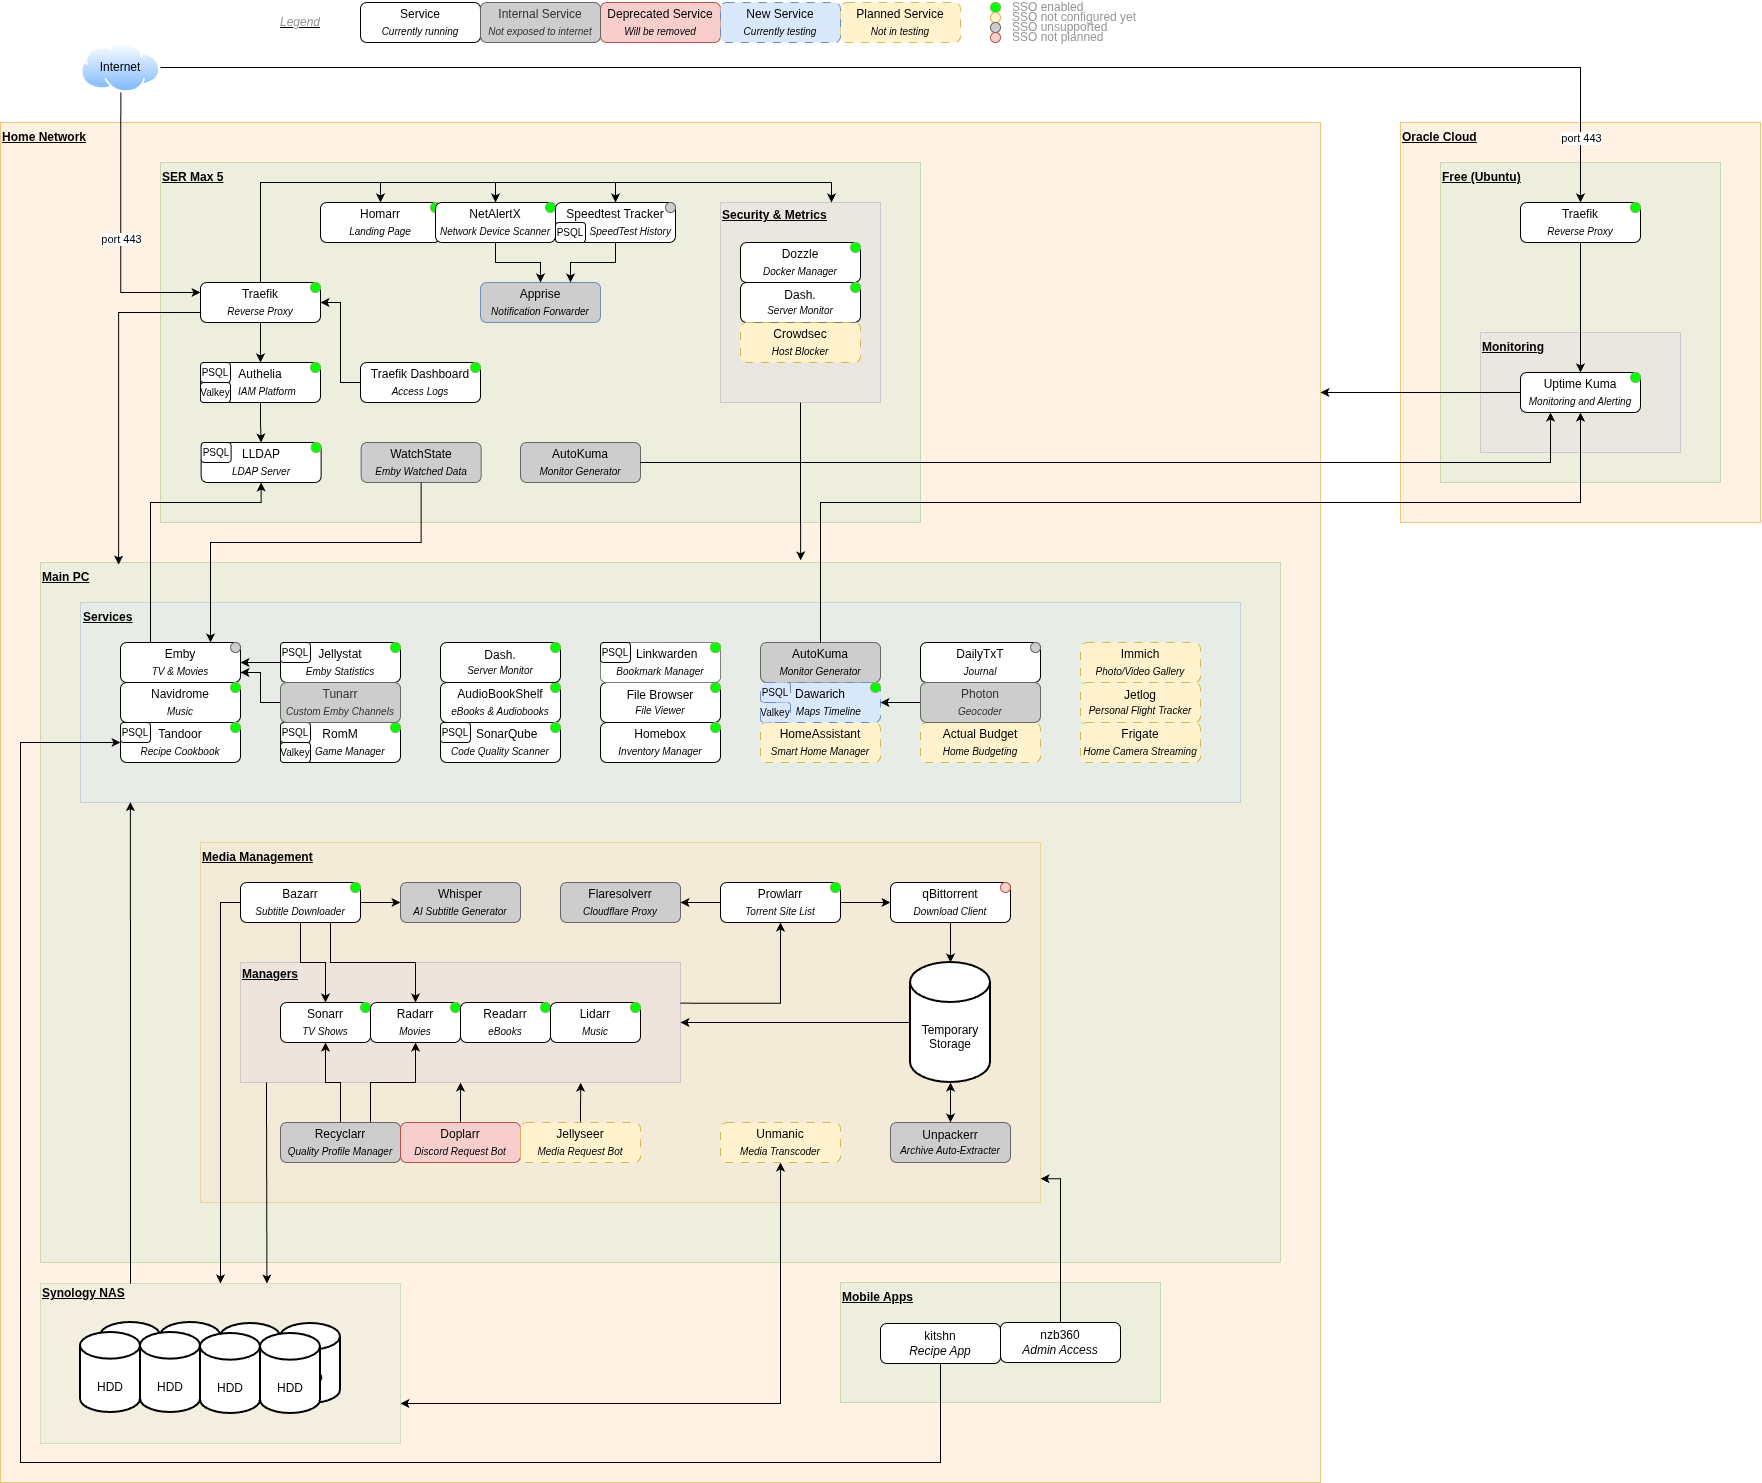
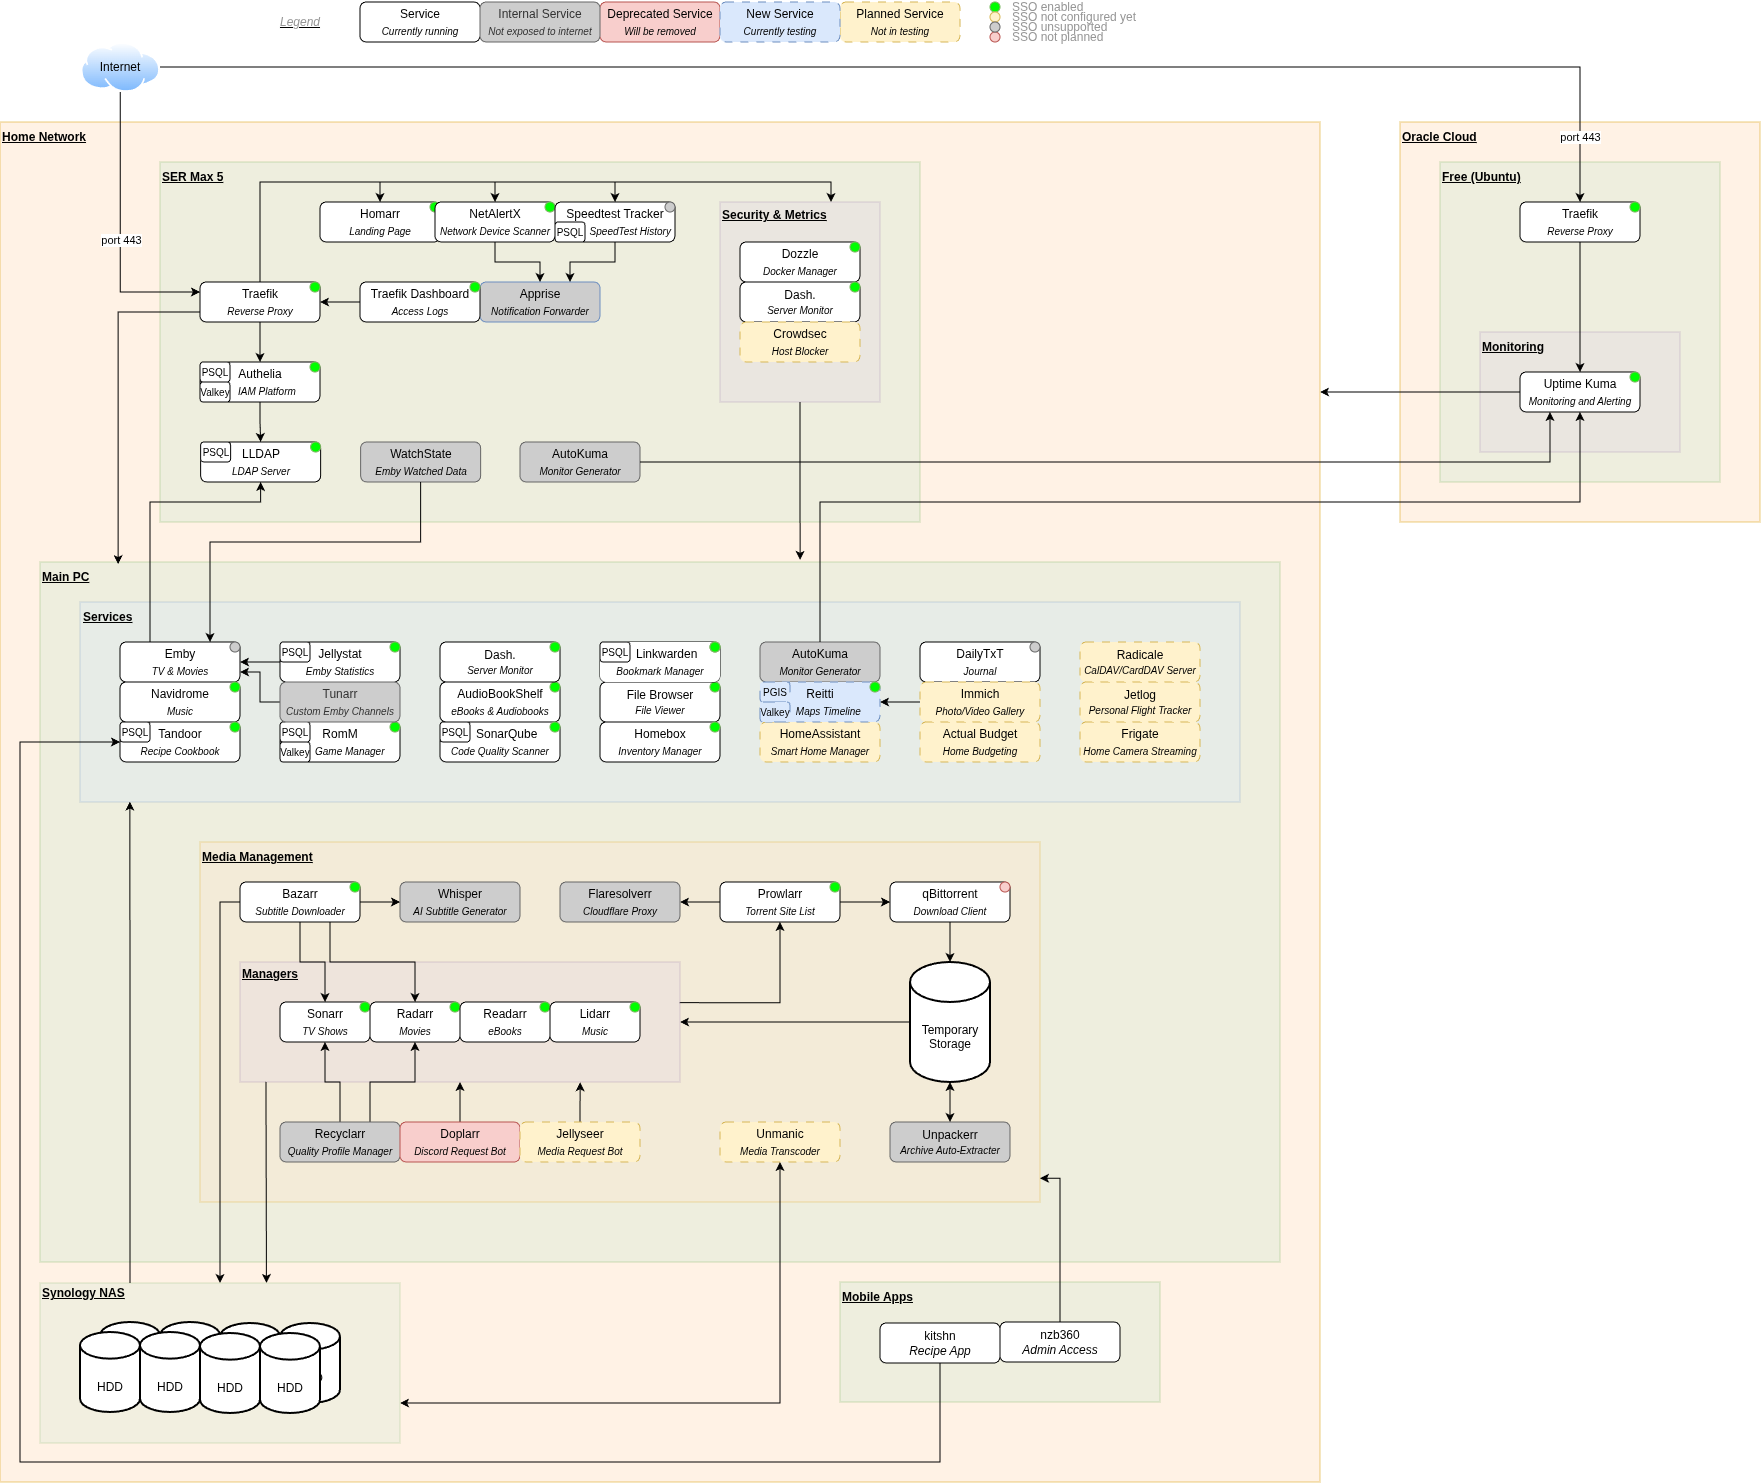
[Reitti] Removing Dawarich, using Reitti for Maps/Timelines

diff --git a/README.md b/README.md
@@ -190,24 +190,24 @@ cat backup_authelia.sql | docker compose -f docker-compose-ser.yml exec -T authe
 docker compose -f docker-compose-ser.yml up --build -d authelia authelia-cache
 ```
 
-### Dawarich DB
+### Reitti DB
 
-Take backup of the current database, then shut the Dawarich containers down:
+Take backup of the current database, then shut the Reitti containers down:
 
 ```bash
-docker compose exec dawarich-db pg_dump -U ${DAWARICH_DB_USER} -d ${DAWARICH_DB_NAME} -cC > backup_dawarich.sql
-docker compose down dawarich dawarich-sidekiq dawarich-cache dawarich-db photon
+docker compose exec reitti-db pg_dump -U ${REITTI_DB_USER} -d ${REITTI_DB_NAME} -cC > backup_reitti.sql
+docker compose down reitti reitti-db reitti-cache reitti-tile-cache
 ```
 
-Upgrade the version of [PostgreSQL](https://registry.hub.docker.com/_/postgres) for `dawarich-db`.
-Next, delete the storage for `dawarich-db` (make sure to copy this directory/volume first).
+Upgrade the version of [PostGIS](https://hub.docker.com/r/postgis/) for `reitti-db`.
+Next, delete the storage for `reitti-db` (make sure to copy this directory/volume first).
 
-Finally, start up the new DB container, restore the backup, then start the remaining Authelia containers:
+Finally, start up the new DB container, restore the backup, then start the remaining Reitti containers:
 
 ```bash
-docker compose up --build -d dawarich-db --wait
-cat backup_dawarich.sql | docker compose exec -T dawarich-db psql -U ${AUTHELIA_DB_USER} -d ${DAWARICH_DB_NAME}
-docker compose up --build -d dawarich dawarich-sidekiq dawarich-cache photon 
+docker compose up --build -d reitti-db --wait
+cat backup_reitti.sql | docker compose exec -T reitti-db psql -U ${REITTI_DB_USER} -d ${REITTI_DB_NAME}
+docker compose up --build -d reitti reitti-cache reitti-tile-cache
 ```
 
 ### Jellystat DB
@@ -358,29 +358,31 @@ docker compose up --build -d tandoor
 # Take backups
 docker compose exec jellystat-db pg_dump -U ${JELLYSTAT_DB_USER} -d ${JELLYSTAT_DB_NAME} -cC > backup_jellystat.sql
 docker compose exec linkwarden-db pg_dump -U ${LINKWARDEN_DB_USER} -d ${LINKWARDEN_DB_NAME} -cC > backup_linkwarden.sql
+docker compose exec reitti-db pg_dump -U ${REITTI_DB_USER} -d ${REITTI_DB_NAME} -cC > backup_reitti.sql
 docker compose exec romm-db pg_dump -U ${ROMM_DB_USER} -d ${ROMM_DB_NAME} -cC > backup_romm.sql
 docker compose exec sonarqube-db pg_dump -U ${SONARQUBE_DB_USER} -d ${SONARQUBE_DB_NAME} -cC > backup_sonarqube.sql
 docker compose exec tandoor-db pg_dump -U ${TANDOOR_DB_USER} -d ${TANDOOR_DB_NAME} -cC > backup_tandoor.sql
 
 # Shut down all containers
-docker compose down jellystat jellystat-db linkwarden linkwarden-db romm romm-cache romm-db sonarqube sonarqube-db tandoor tandoor-db
+docker compose down jellystat jellystat-db linkwarden linkwarden-db reitti reitti-db reitti-cache reitti-tile-cache romm romm-cache romm-db sonarqube sonarqube-db tandoor tandoor-db
 
 # Update for new PostgreSQL version
-sudo rm -rf ./storage/jellystat-db/ ./storage/linkwarden-db/ ./storage/romm-db/ ./storage/sonarqube-db/ ./storage/tandoor-db/
+sudo rm -rf ./storage/jellystat-db/ ./storage/linkwarden-db/ ./storage/reitti-db/ ./storage/romm-db/ ./storage/sonarqube-db/ ./storage/tandoor-db/
 docker compose pull
 
 # Start DB containers
-docker compose up --build -d jellystat-db linkwarden-db romm-db sonarqube-db tandoor-db --wait
+docker compose up --build -d jellystat-db linkwarden-db reitti-db romm-db sonarqube-db tandoor-db --wait
 
 # Restore backups
 cat backup_jellystat.sql | docker compose exec -T jellystat-db psql -U ${JELLYSTAT_DB_USER}
 cat backup_linkwarden.sql | docker compose exec -T linkwarden-db psql -U ${LINKWARDEN_DB_USER}
+cat backup_reitti.sql | docker compose exec -T reitti-db psql -U ${REITTI_DB_USER}
 cat backup_romm.sql | docker compose exec -T romm-db psql -U ${ROMM_DB_USER}
 cat backup_sonarqube.sql | docker compose exec -T sonarqube-db psql -U ${SONARQUBE_DB_USER}
 cat backup_tandoor.sql | docker compose exec -T tandoor-db psql -U ${TANDOOR_DB_USER}
 
 # Start services
-docker compose up --build -d jellystat linkwarden romm sonarqube tandoor tandoor-ui
+docker compose up --build -d jellystat linkwarden reitti reitti-cache reitti-tile-cache romm romm-cache sonarqube tandoor
 ```
 
 #### SER
